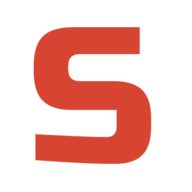
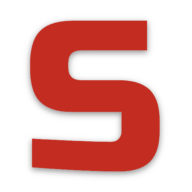
update

diff --git a/app/_components/ScoreCard.tsx b/app/_components/ScoreCard.tsx
@@ -735,11 +735,9 @@ export default function ScoreCard({ gameInfo, league }: { gameInfo: any; league:
     return (
       <>
         {isDesktopScreen ? (
-          <Box className="w-full h-full">
-            <Box className="animate-pulse w-full rounded-xl h-[8rem] bg-gray-200 px-1 py-4 my-1"></Box>
-          </Box>
+          <Box className="animate-pulse w-full rounded-xl h-[7.75rem] bg-gray-200 my-1"></Box>
         ) : (
-          <Box className="animate-pulse w-full rounded-xl h-[3.5rem] bg-gray-200 py-2 my-1"></Box>
+          mobileView()
         )}
       </>
     );

diff --git a/app/globals.css b/app/globals.css
@@ -22,9 +22,9 @@ main {
 
 .main-logo {
   background: linear-gradient(
-    118deg,
-    #d50a0a 0%,
-    #d50a0a 75%,
+    120deg,
+    #d00 0%,
+    #d00 75%,
     hsl(0, 91%, 35%) 75%,
     hsl(0, 91%, 35%) 81%,
     #2b2c2d 81%,
@@ -504,7 +504,7 @@ main {
   left: 0;
   right: 0;
   content: "";
-  background-color: #d50a0a;
+  background-color: #d00;
   height: 0px;
   position: absolute;
 }
@@ -613,7 +613,7 @@ main {
 }
 
 .menu-dropdown-option:hover {
-  background-color: #d50a0a;
+  background-color: #d00;
   opacity: 1;
   color: white;
 }
